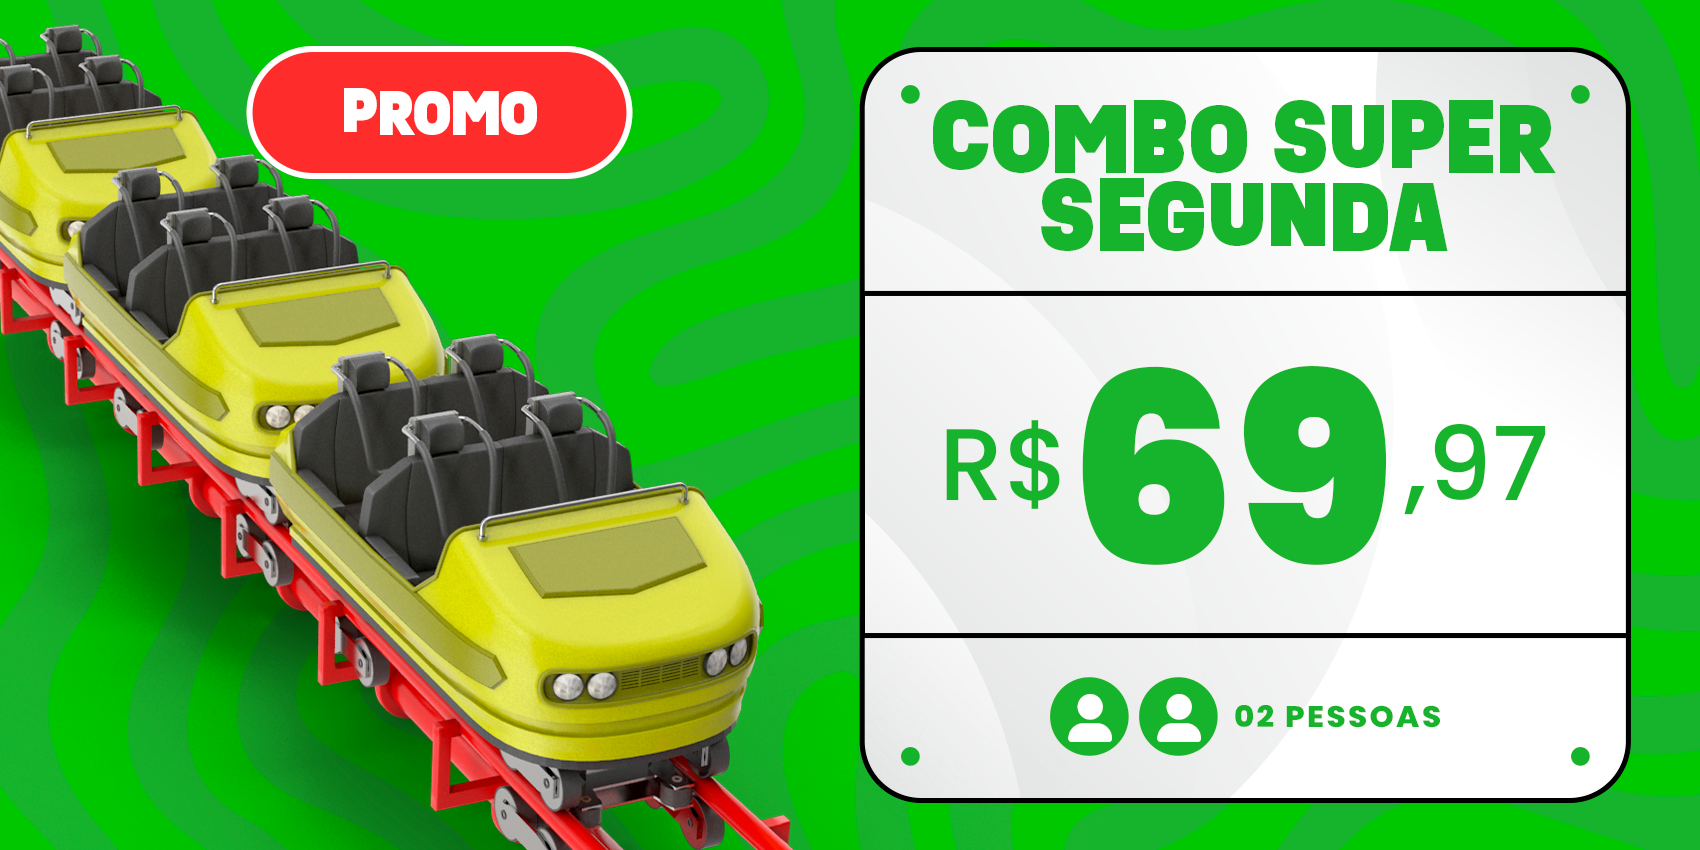
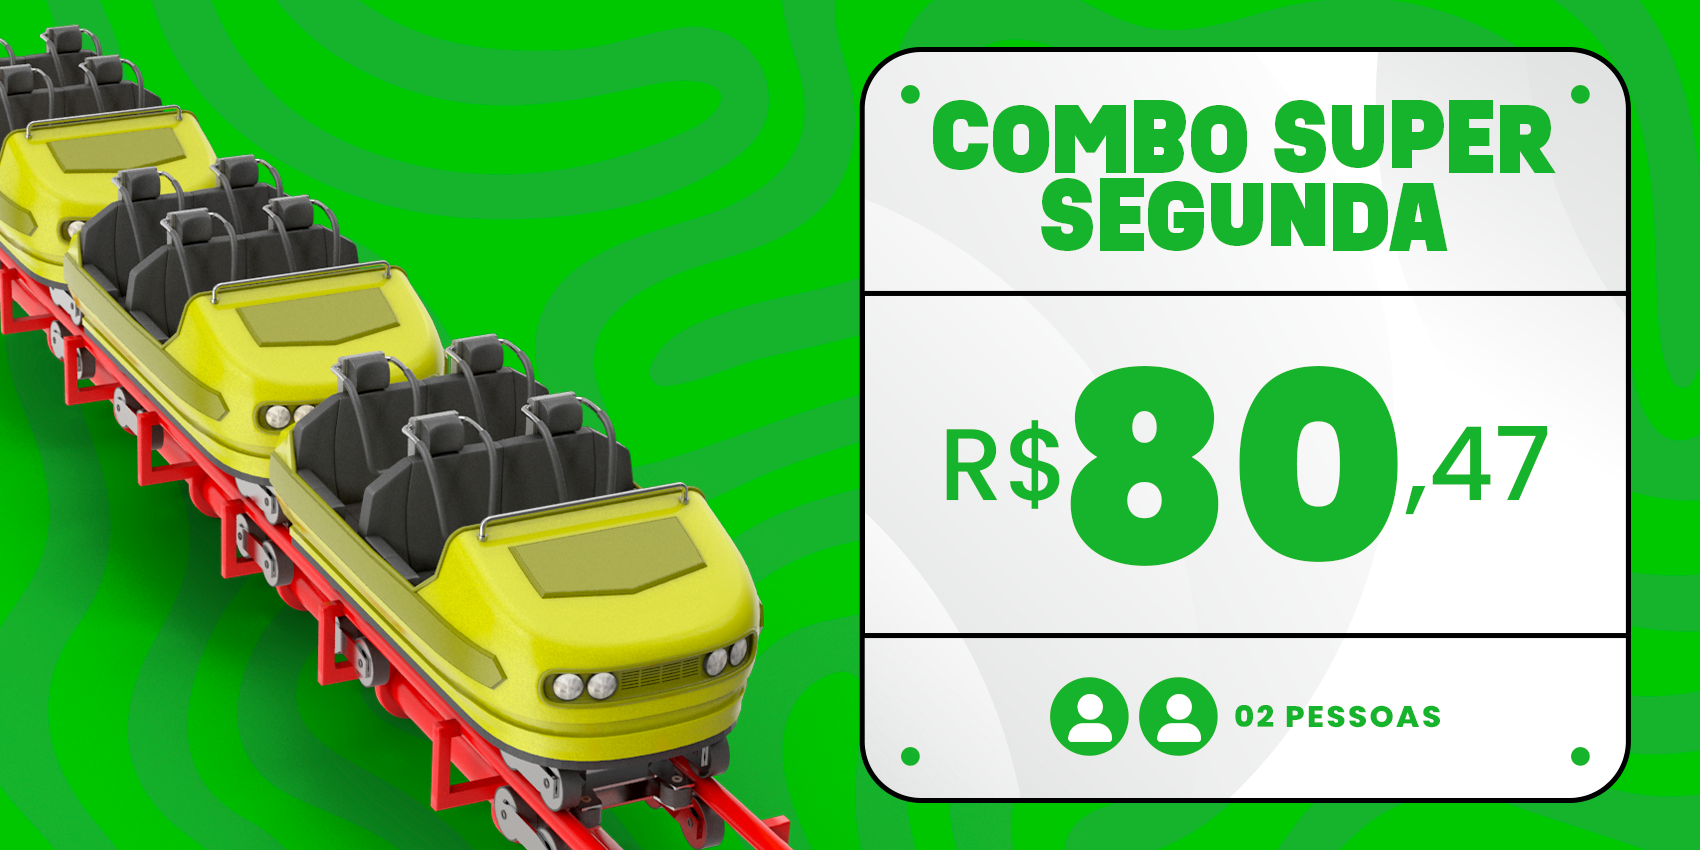
atualização passaportes segunda

diff --git a/src/pages/passaportes/index.tsx b/src/pages/passaportes/index.tsx
@@ -16,12 +16,12 @@ import ComboPipoca from '@/public/images/combos/combo-pipoca.png'
 import Combo360 from '@/public/images/tickets/combo-360.png'
 import ComboEncantado from '@/public/images/tickets/combo-encantado.png'
 import QuartaQuintaMaluca from '@/public/images/tickets/quarta_maluca.jpg'
+import SuperAntecipado from '@/public/images/tickets/super-antecipado.png'
 import ComboEspetacular from '@/public/images/tickets/combo-espetacular.png'
-import ComboSuperSegunda from '@/public/images/tickets/combo-super-segunda.png'
+import ComboSuperSegunda from '@/public/images/tickets/combo-super-segunda.jpeg'
 import PassaporteAntecipado from '@/public/images/tickets/passaporte-antecipado.png'
 import PassaporteIndividual from '@/public/images/tickets/passaporte-individual.png'
-import PassaporteSuperSegunda from '@/public/images/tickets/passaporte-super-segunda.png'
-import SuperAntecipado from '@/public/images/tickets/super-antecipado.png'
+import PassaporteSuperSegunda from '@/public/images/tickets/passaporte-super-segunda.jpeg'
 import Head from 'next/head'
 import Image from 'next/image'
 import { GoAlert } from 'react-icons/go'
@@ -54,21 +54,21 @@ export default function PassaportsPage() {
                 <Ticket
                   id={15}
                   name="Passaporte Super Segunda"
-                  price={3997}
+                  price={4597}
                   banner={PassaporteSuperSegunda}
                   quantity={1}
-                  reference={3997}
+                  reference={4597}
                   isPassport
                   isSuperSegunda
                 />
                 <Ticket
                   id={19}
-                  name="Combo Super Segunda"
-                  price={6997}
-                  banner={ComboSuperSegunda}
+                  isPassport
+                  price={8047}
                   quantity={2}
                   reference={3997}
-                  isPassport
+                  name="Combo Super Segunda"
+                  banner={ComboSuperSegunda}
                 />
               </>
             )}
